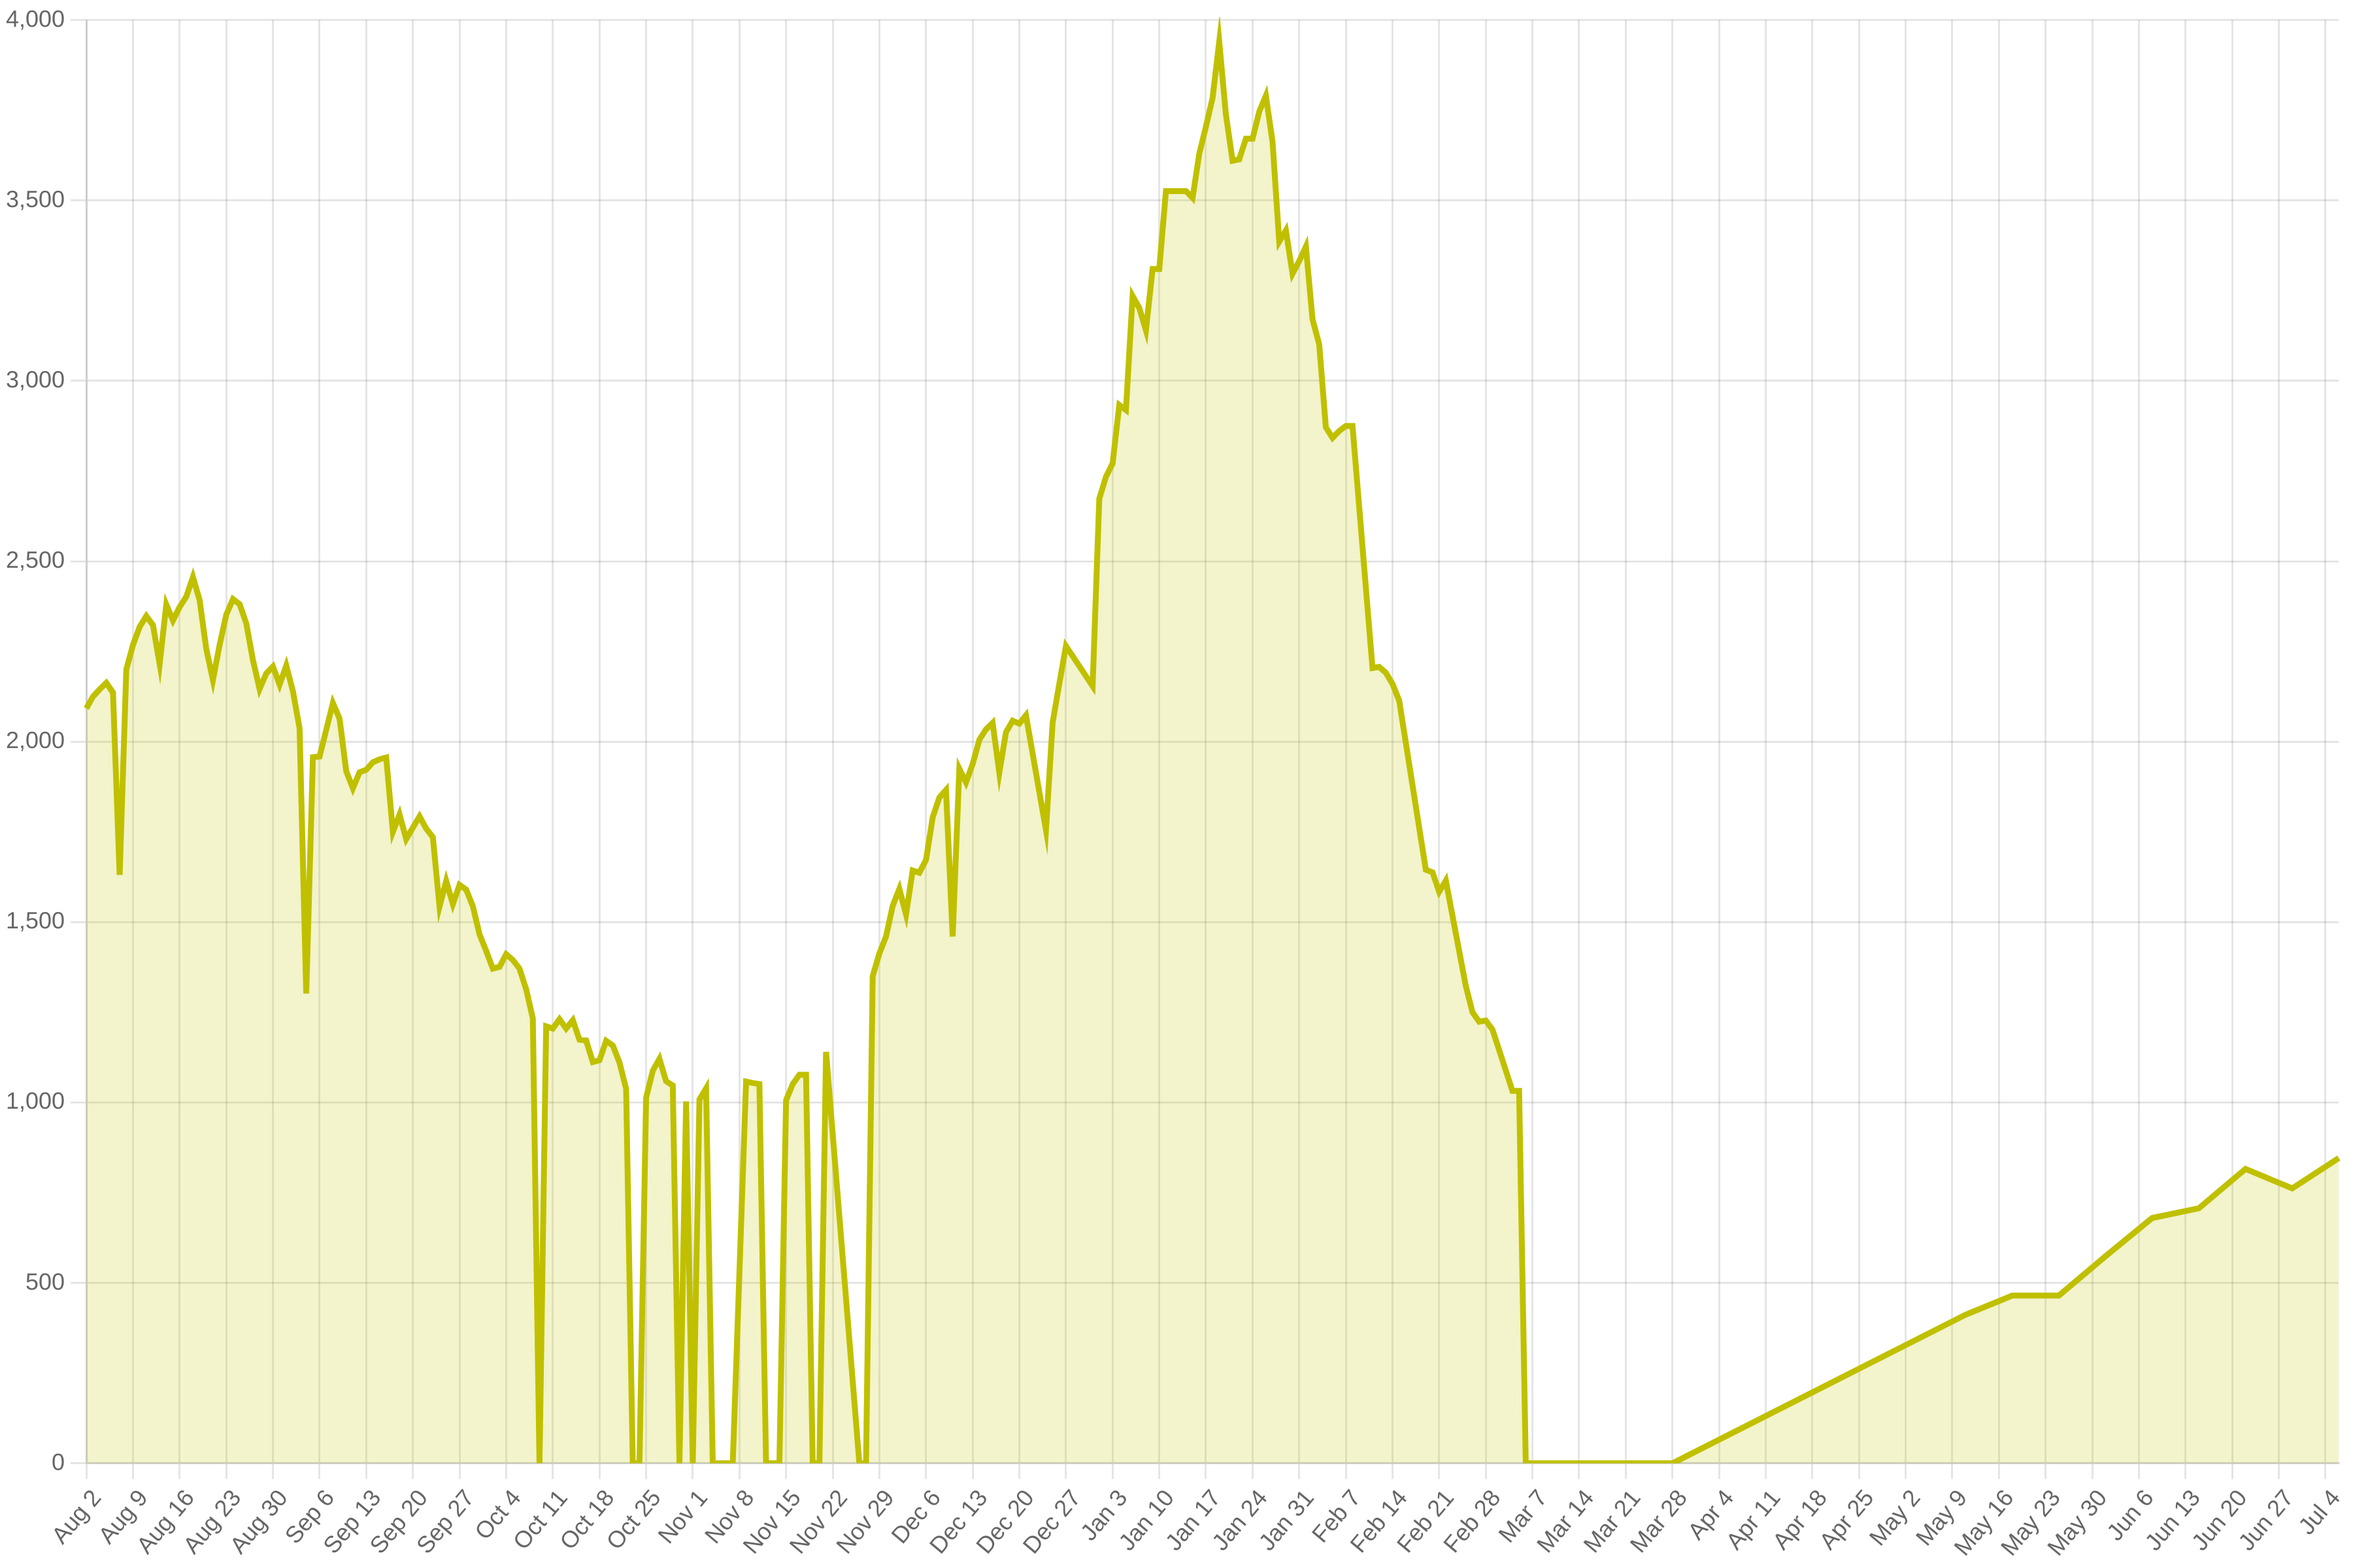
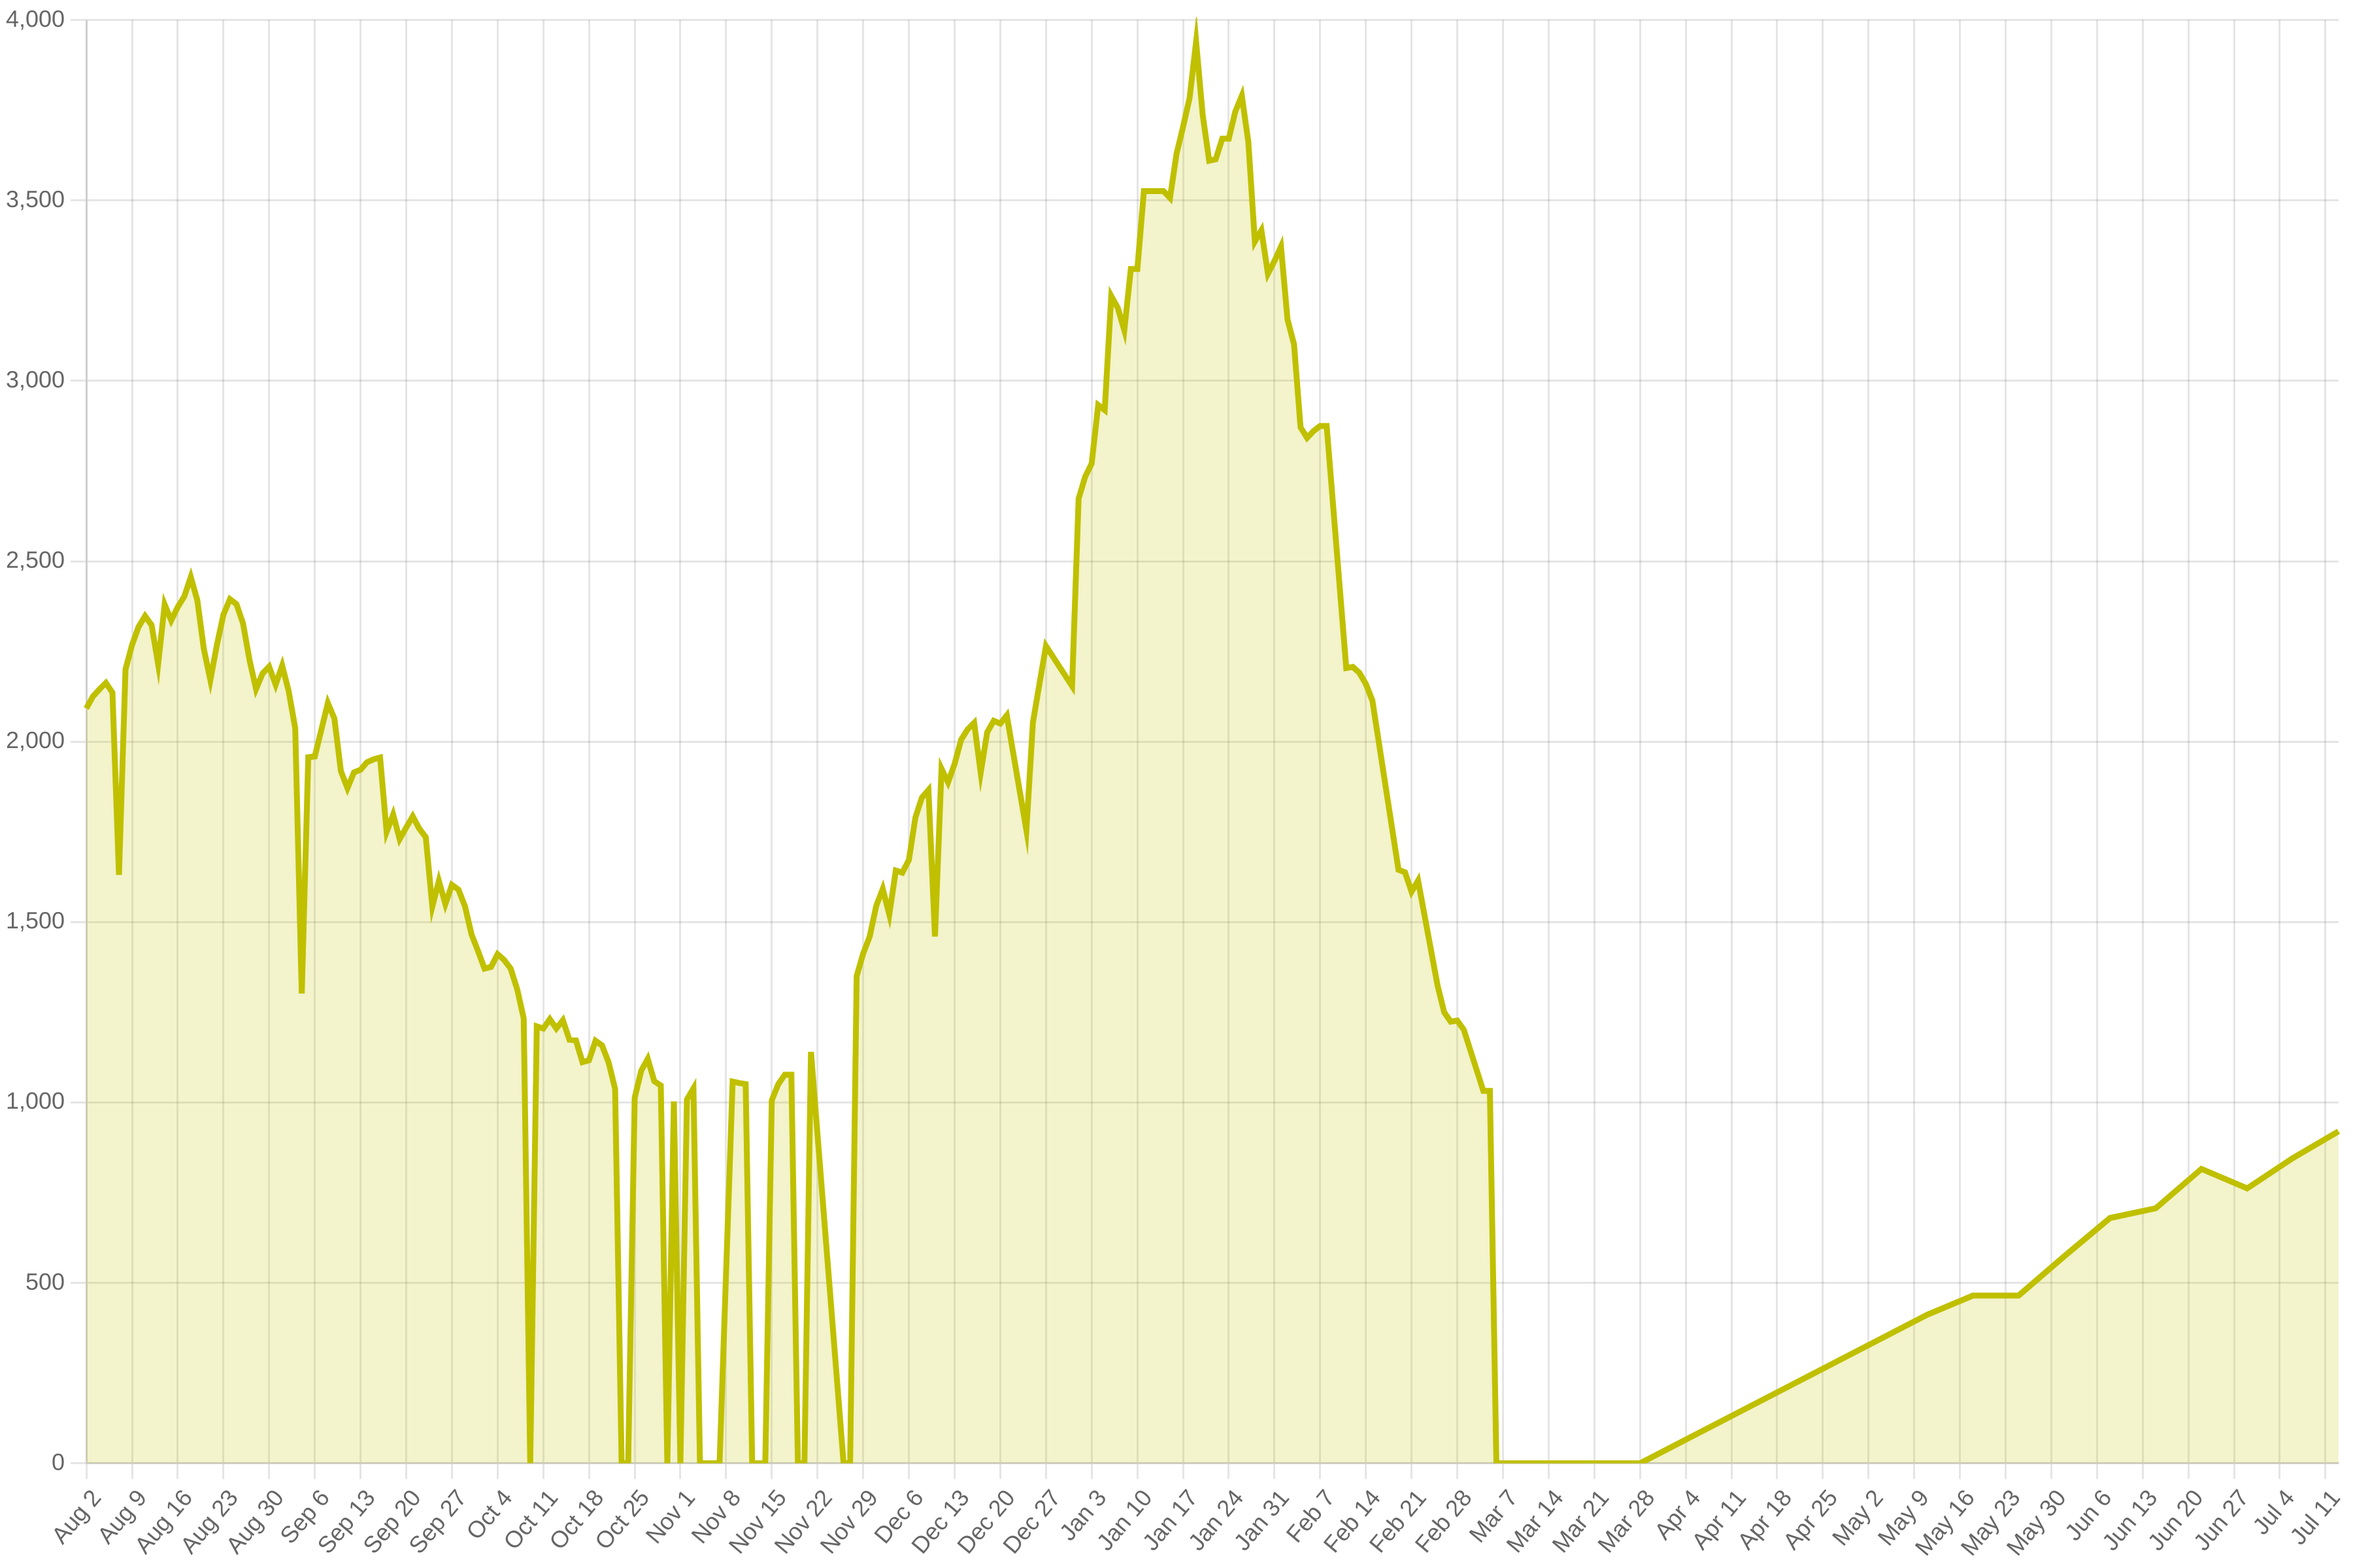
regular update

Changed region(s): [[0.0622, 0.0, 0.9956, 1.0], [0.0622, 0.0312, 0.1244, 0.4375], [0.9644, 0.9375, 0.9956, 0.9688]]

diff --git a/docs/index.html b/docs/index.html
@@ -43,10 +43,10 @@
     <main>
       <h1>Missouri COVID data</h1>
       <p>
-        The data on this page was updated <strong>Friday, July 8, 2022</strong>. For
+        The data on this page was updated <strong>Friday, July 15, 2022</strong>. For
         the values that are averages over 7 days, the start date is
-        <strong>Thursday, June 30, 2022</strong> and the end date is
-        <strong>Wednesday, July 6, 2022</strong>. The original data comes from the
+        <strong>Thursday, July 7, 2022</strong> and the end date is
+        <strong>Wednesday, July 13, 2022</strong>. The original data comes from the
         <a
           href="https://results.mo.gov/t/COVID19/views/WeeklyCOVIDMockup_16487370423730/WeeklyReport-Revised-v2?:embed=y&:showVizHome=no&:host_url=https%3A%2F%2Fresults.mo.gov%2F&:embed_code_version=3&:tabs=no&:toolbar=no&:showAppBanner=false&:display_spinner=no&:loadOrderID=0"
           >Missouri Department of Health and Senior Services</a
@@ -79,19 +79,19 @@
 
       <h2>New cases</h2>
       <p>
-        There have been <strong>11,728</strong> new cases in the
-        past 7 days, about <strong>1,675 per day</strong>.
+        There have been <strong>13,717</strong> new cases in the
+        past 7 days, about <strong>1,960 per day</strong>.
       </p>
       <img src="charts/totalPositive.png" />
 
       <h2>Outcomes</h2>
       <p>
-        There are currently 846 people hospitalized with
+        There are currently 920 people hospitalized with
         COVID-19.
       </p>
       <img src="charts/hospitalizations.png" />
 
-      <p>96 people are in intensive care.</p>
+      <p>107 people are in intensive care.</p>
       <img src="charts/icu.png" />
 
       <h2>Unavailable</h2>
